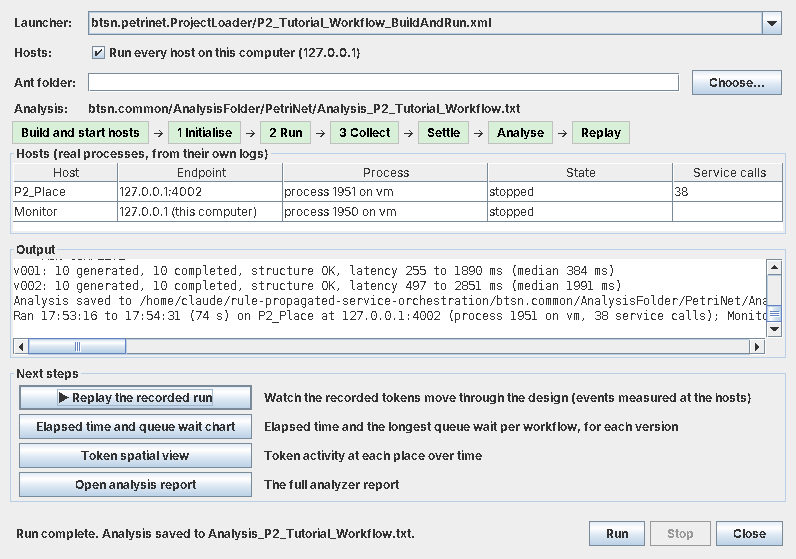
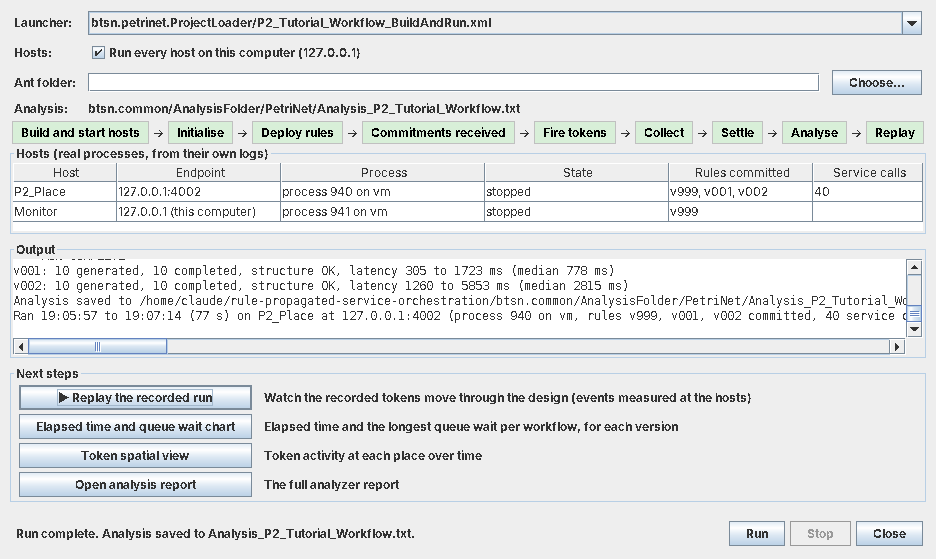
Run: show rule deployment and the hosts' commitments as steps
Rules reach every host before any token flows; the Run window now shows it.

- Steps: Build and start hosts, Initialise, Deploy rules, Commitments received,
  Fire tokens, Collect, Settle, Analyse, Replay. Commitments received is lit by
  the hosts' confirmations of the workflow's rules ("Commitment confirmed
  for ..."), not those exchanged for initialisation or collection, and is
  complete when tokens start to fire. A host that never confirms leaves the step
  red where the launcher stopped.
- Hosts table: a Rules committed column per host (P2_Place v999, v001, v002;
  Monitor v999); admin services commit for their host. The closing line names
  them too.
- Tutorial: the steps and "rules before tokens"; phase table; screenshot.
- RunFromEditorCheck: step transitions (initialisation commitments ignored,
  second version's deployment, firing) and per-host commitments.

Claude-Session: https://claude.ai/code/session_0151nDw2DdARiuD7yvK629N9

diff --git a/btsn.workflowEditor/tests/com/editor/RunFromEditorCheck.java b/btsn.workflowEditor/tests/com/editor/RunFromEditorCheck.java
@@ -19,7 +19,12 @@ public final class RunFromEditorCheck {
 
     private static void run(String[] args) throws Exception {
         File repository = new File(args[0]).getCanonicalFile();
-        check(LauncherRun.phaseOf("=== PHASE 2: WORKFLOW EXECUTION ===") == LauncherRun.Phase.RUN && LauncherRun.phaseOf("Deploying") == null, "Phase lines");
+        // Steps: commitments in initialisation (v999) are not the workflow's; those after its rules are sent are.
+        check(LauncherRun.phaseOf("=== PHASE 2: WORKFLOW EXECUTION ===", LauncherRun.Phase.INITIALISE) == LauncherRun.Phase.DEPLOY, "Phase 2 starts rule deployment");
+        check(LauncherRun.phaseOf("DEBUG [main] (?:?) - Commitment confirmed for P2_InitializationService:purgeAndInitialize in 100ms", LauncherRun.Phase.INITIALISE) == null, "Initialisation commitment taken as the workflow's");
+        check(LauncherRun.phaseOf("DEBUG [main] (?:?) - Commitment confirmed for P2_Place:processToken in 101ms", LauncherRun.Phase.DEPLOY) == LauncherRun.Phase.COMMIT, "Workflow commitment not seen");
+        check(LauncherRun.phaseOf("Deploying petrinet/Workflow/X (v002) for EG6...", LauncherRun.Phase.COMMIT) == LauncherRun.Phase.DEPLOY, "Second version's deployment not seen");
+        check(LauncherRun.phaseOf("Firing 10 tokens from EG11 (v001) to P2_Place.processToken...", LauncherRun.Phase.COMMIT) == LauncherRun.Phase.FIRE, "Firing not seen");
         List<File> launchers = LauncherRun.launchersFor(repository, "petrinet/Workflow/P2_Tutorial_Workflow");
         check(!launchers.isEmpty() && launchers.get(0).getName().equals("P2_Tutorial_Workflow_BuildAndRun.xml"), "P2 launcher not found first: " + launchers);
         // The closing summary: per version, generated and completed, flagged when some did not complete.
@@ -58,6 +63,20 @@ public final class RunFromEditorCheck {
         RunHosts away = RunHosts.forLauncher(fakeLauncher.toFile(), repository, false);
         away.started(System.currentTimeMillis());
         away.launcherLine("  [p2] Skipping - running on remote host");
+        // Commitments, per host: admin services commit for their host.
+        RunHosts committing = RunHosts.forLauncher(fakeLauncher.toFile(), repository, true);
+        committing.started(System.currentTimeMillis());
+        for (String line : new String[] {
+                " INFO [CommitmentListener-v999] (?:?) - [OK] UDP commitment confirmation received: v999:1",
+                "DEBUG [main] (?:?) - Commitment confirmed for P2_InitializationService:purgeAndInitialize in 100ms",
+                " INFO [CommitmentListener-v999] (?:?) - [OK] UDP commitment confirmation received: v999:2",
+                "DEBUG [main] (?:?) - Commitment confirmed for Monitor_InitializationService:purgeAndInitialize in 101ms",
+                " INFO [CommitmentListener-v001] (?:?) - [OK] UDP commitment confirmation received: v001:1",
+                "DEBUG [main] (?:?) - Commitment confirmed for P2_Place:processToken in 101ms",
+                " INFO [CommitmentListener-v002] (?:?) - [OK] UDP commitment confirmation received: v002:1",
+                "DEBUG [main] (?:?) - Commitment confirmed for P2_Place:processToken in 101ms"})
+            committing.launcherLine(line);
+        check(committing.hosts.get(0).committed.equals(Arrays.asList("v999", "v001", "v002")) && committing.hosts.get(1).committed.equals(Arrays.asList("v999")), "Commitments: " + committing.hosts.get(0).committed + " / " + committing.hosts.get(1).committed);
         check(away.hosts.get(0).remote && away.hosts.get(0).state.startsWith("remote host"), "Remote host not shown");
 
         // A project reached through ".." (e.g. a process opened as ...\\btsn.workflowEditor\\..\\btsn.common\\...) gives real paths.
@@ -119,7 +138,7 @@ public final class RunFromEditorCheck {
         run.start();
         check(complete.done.await(60, TimeUnit.SECONDS), "Run did not finish");
         check(complete.outcome == LauncherRun.Phase.DONE && analysis.equals(complete.analysis), "Run outcome " + complete.outcome + ": " + complete.message + "\n" + complete.lines);
-        check(complete.phases.containsAll(Arrays.asList(LauncherRun.Phase.BUILD, LauncherRun.Phase.INITIALISE, LauncherRun.Phase.RUN,
+        check(complete.phases.containsAll(Arrays.asList(LauncherRun.Phase.BUILD, LauncherRun.Phase.INITIALISE, LauncherRun.Phase.DEPLOY, LauncherRun.Phase.COMMIT, LauncherRun.Phase.FIRE,
             LauncherRun.Phase.COLLECT, LauncherRun.Phase.SETTLE, LauncherRun.Phase.ANALYSE, LauncherRun.Phase.DONE)), "Phases " + complete.phases);
         check(complete.lines.stream().anyMatch(l -> l.contains("-Dhost.address=127.0.0.1")), "Local hosts option not passed");
         String saved = new String(Files.readAllBytes(analysis.toPath()), StandardCharsets.UTF_8);
@@ -139,7 +158,7 @@ public final class RunFromEditorCheck {
         check(stopped.done.await(30, TimeUnit.SECONDS) && stopped.outcome == LauncherRun.Phase.STOPPED, "Stop did not stop the run: " + stopped.outcome);
         check(!alive(hostPid), "Host left running after Stop");
         check(!scratch.resolve("unused.txt").toFile().exists(), "Stopped run wrote an analysis");
-        System.out.println("PASS: Run from the editor: phases followed, hosts stopped with the launcher, analysis saved and summarised, hosts read from their own logs, Stop mid-run");
+        System.out.println("PASS: Run from the editor: phases followed, hosts stopped with the launcher, analysis saved and summarised, hosts read from their own logs, rule commitments per host, Stop mid-run");
     }
 
     /** Builds Ant's folder layout with a Launcher class that behaves like a BuildAndRun launcher. */
@@ -160,6 +179,10 @@ public final class RunFromEditorCheck {
             + "    System.out.println(\"=== PHASE 1: DATABASE INITIALIZATION ===\");\n"
             + "    System.out.println(\" INFO [main] (?:?) - === JSON-BASED DEPLOYMENT COMPLETED SUCCESSFULLY ===\");\n"
             + "    System.out.println(\"=== PHASE 2: WORKFLOW EXECUTION ===\");\n"
+            + "    System.out.println(\"Deploying petrinet/Workflow/Demo (v001) for EG11...\");\n"
+            + "    System.out.println(\" INFO [CommitmentListener-v001] (?:?) - [OK] UDP commitment confirmation received: v001:1\");\n"
+            + "    System.out.println(\"DEBUG [main] (?:?) - Commitment confirmed for P2_Place:processToken in 101ms\");\n"
+            + "    System.out.println(\"Firing 10 tokens from EG11 (v001) to P2_Place.processToken...\");\n"
             + "    Process host = new ProcessBuilder(\"sleep\", \"600\").start();\n"
             + "    Files.write(scratch.resolve(\"host.pid\"), String.valueOf(host.pid()).getBytes());\n"
             + "    if (Files.exists(scratch.resolve(\"hang\"))) { host.waitFor(); return; }\n"

diff --git a/btsn.workflowEditor/src/com/editor/RunHosts.java b/btsn.workflowEditor/src/com/editor/RunHosts.java
@@ -20,6 +20,8 @@ public final class RunHosts {
         final File log;
         public String state = "waiting", process = "";
         public int calls;
+        /** Rule versions this host has confirmed (its commitments), in the order received. */
+        public final List<String> committed = new ArrayList<>();
         public boolean remote, seen;
         private long offset;
         private final StringBuilder partial = new StringBuilder();
@@ -28,10 +30,13 @@ public final class RunHosts {
 
     private static final Pattern PROCESS = Pattern.compile("Host process: (\\d+) on (\\S+)");
     private static final Pattern CALL = Pattern.compile("SERVICE COMPLETE: org\\.btsn\\.places\\.\\w+_Place\\.");
+    private static final Pattern CONFIRMATION = Pattern.compile("commitment confirmation received: (v\\d+):\\d+");
+    private static final Pattern COMMITTED = Pattern.compile("Commitment confirmed for (\\w+):\\w+");
     private static final Pattern SKIPPED = Pattern.compile("\\[(p\\d|monitor)\\] Skipping - running on remote host");
 
     public final List<Host> hosts = new ArrayList<>();
     private long runStart;
+    private String confirmingVersion = "";
 
     /** The hosts a launcher starts (its run.pN properties) and Monitor, with their endpoints from SingleHost.json. */
     public static RunHosts forLauncher(File launcher, File root, boolean allHostsHere) {
@@ -89,15 +94,37 @@ public final class RunHosts {
     /** A new run: earlier logs (written before this moment) are ignored until the hosts write new ones. */
     public void started(long when) {
         runStart = when;
-        for (Host h : hosts) { h.state = "waiting"; h.process = ""; h.calls = 0; h.remote = false; h.seen = false; h.offset = 0; h.partial.setLength(0); }
+        for (Host h : hosts) { h.state = "waiting"; h.process = ""; h.calls = 0; h.remote = false; h.seen = false; h.offset = 0; h.partial.setLength(0); h.committed.clear(); }
+        confirmingVersion = "";
     }
 
-    /** A line of the launcher's own output: it reports hosts it leaves to other machines. */
+    /**
+     * A line of the launcher's own output: it reports hosts it leaves to other machines, and each host's
+     * commitment to the rules sent to it ("confirmation received: v001:1", then "Commitment confirmed for
+     * P2_Place:processToken"). Admin services commit for their host: P2_InitializationService is P2's.
+     */
     public void launcherLine(String line) {
+        Matcher v = CONFIRMATION.matcher(line);
+        if (v.find()) { confirmingVersion = v.group(1); return; }
+        Matcher c = COMMITTED.matcher(line);
+        if (c.find() && !confirmingVersion.isEmpty()) {
+            Host h = hostOfService(c.group(1));
+            if (h != null && !h.committed.contains(confirmingVersion)) h.committed.add(confirmingVersion);
+            return;
+        }
         Matcher m = SKIPPED.matcher(line);
         if (!m.find()) return;
         String node = m.group(1).equalsIgnoreCase("monitor") ? "monitor" : m.group(1).toUpperCase(Locale.ROOT);
         for (Host h : hosts) if (h.node.equals(node)) { h.remote = true; h.state = "remote host (not started here)"; }
+    }
+
+    /** P2_Place, P2_InitializationService, P2_CollectorService -> P2_Place; Monitor... -> Monitor. */
+    Host hostOfService(String service) {
+        if (service.startsWith("Monitor")) { for (Host h : hosts) if ("Monitor".equals(h.name)) return h; return null; }
+        Matcher node = Pattern.compile("^(P\\d)_").matcher(service);
+        if (!node.find()) return null;
+        for (Host h : hosts) if (node.group(1).equals(h.node)) return h;
+        return null;
     }
 
     /** Reads what each host has added to its log since the last refresh. */
@@ -137,6 +164,7 @@ public final class RunHosts {
         for (Host h : hosts) {
             List<String> detail = new ArrayList<>();
             if (!h.process.isEmpty()) detail.add(h.process);
+            if (!h.committed.isEmpty()) detail.add("rules " + String.join(", ", h.committed) + " committed");
             if (h.remote) detail.add("remote host");
             if (!"Monitor".equals(h.name)) detail.add(h.calls + " service calls");
             parts.add(h.name + (h.endpoint.isEmpty() || "Monitor".equals(h.name) ? "" : " at " + h.endpoint) + (detail.isEmpty() ? "" : " (" + String.join(", ", detail) + ")"));

diff --git a/btsn.workflowEditor/src/com/editor/RunWindow.java b/btsn.workflowEditor/src/com/editor/RunWindow.java
@@ -40,7 +40,7 @@ public final class RunWindow extends JFrame {
     private final JLabel status = new JLabel(" ");
     private LauncherRun run;
 
-    private static final String[] STEP_NAMES = {"Build and start hosts", "1 Initialise", "2 Run", "3 Collect", "Settle", "Analyse", "Replay"};
+    private static final String[] STEP_NAMES = {"Build and start hosts", "Initialise", "Deploy rules", "Commitments received", "Fire tokens", "Collect", "Settle", "Analyse", "Replay"};
 
     public RunWindow(Window owner, File root, String processName, List<File> launchers, Consumer<File> onAnalysis, Runnable onPlay) {
         super("Run on hosts: " + processName);
@@ -95,7 +95,8 @@ public final class RunWindow extends JFrame {
         hostTable.getColumnModel().getColumn(1).setPreferredWidth(150);
         hostTable.getColumnModel().getColumn(2).setPreferredWidth(190);
         hostTable.getColumnModel().getColumn(3).setPreferredWidth(170);
-        hostTable.getColumnModel().getColumn(4).setPreferredWidth(95);
+        hostTable.getColumnModel().getColumn(4).setPreferredWidth(130);
+        hostTable.getColumnModel().getColumn(5).setPreferredWidth(95);
         hostTable.setToolTipText("Each row is a real host process started for this run, read from its own log beside the launcher");
         hostPane = new JScrollPane(hostTable);
         hostPane.setBorder(BorderFactory.createTitledBorder("Hosts (real processes, from their own logs)"));
@@ -174,9 +175,9 @@ public final class RunWindow extends JFrame {
     private void showPhase(LauncherRun.Phase phase) {
         int index;
         switch (phase) {
-            case BUILD: index = 0; break; case INITIALISE: index = 1; break; case RUN: index = 2; break;
-            case COLLECT: index = 3; break; case SETTLE: index = 4; break; case ANALYSE: index = 5; break;
-            case DONE: index = 6; break;
+            case BUILD: index = 0; break; case INITIALISE: index = 1; break; case DEPLOY: index = 2; break;
+            case COMMIT: index = 3; break; case FIRE: index = 4; break; case COLLECT: index = 5; break;
+            case SETTLE: index = 6; break; case ANALYSE: index = 7; break; case DONE: index = 8; break;
             default: return;
         }
         for (int i = 0; i < steps.length; i++) {
@@ -228,7 +229,7 @@ public final class RunWindow extends JFrame {
 
     /** Host | Endpoint | Process | State | Service calls */
     final class HostModel extends javax.swing.table.AbstractTableModel {
-        private final String[] columns = {"Host", "Endpoint", "Process", "State", "Service calls"};
+        private final String[] columns = {"Host", "Endpoint", "Process", "State", "Rules committed", "Service calls"};
         public int getRowCount() { return hosts == null ? 0 : hosts.hosts.size(); }
         public int getColumnCount() { return columns.length; }
         @Override public String getColumnName(int c) { return columns[c]; }
@@ -239,6 +240,7 @@ public final class RunWindow extends JFrame {
                 case 1: return h.endpoint;
                 case 2: return h.process;
                 case 3: return h.state;
+                case 4: return String.join(", ", h.committed);
                 default: return "Monitor".equals(h.name) ? "" : String.valueOf(h.calls);
             }
         }

diff --git a/btsn.workflowEditor/src/com/editor/LauncherRun.java b/btsn.workflowEditor/src/com/editor/LauncherRun.java
@@ -19,7 +19,11 @@ import java.util.stream.Collectors;
  * especially), holding their ports and Monitor's database. Stopping always takes the whole tree.
  */
 public final class LauncherRun {
-    public enum Phase { BUILD, INITIALISE, RUN, COLLECT, SETTLE, ANALYSE, DONE, FAILED, STOPPED }
+    /**
+     * The run's steps. Rules reach every host before any token flows: DEPLOY sends each version's rules,
+     * COMMIT is the hosts confirming them (their commitments), and only then are tokens fired.
+     */
+    public enum Phase { BUILD, INITIALISE, DEPLOY, COMMIT, FIRE, COLLECT, SETTLE, ANALYSE, DONE, FAILED, STOPPED }
 
     public interface Listener {
         void line(String text);
@@ -99,11 +103,12 @@ public final class LauncherRun {
         if (allHostsHere) args.add("-Dhost.address=127.0.0.1");
         process = start(args, null);
         boolean completed = false;
+        Phase current = Phase.BUILD;
         try (BufferedReader out = new BufferedReader(new InputStreamReader(process.getInputStream(), StandardCharsets.UTF_8))) {
             for (String line; (line = out.readLine()) != null; ) {
                 listener.line(line);
-                Phase phase = phaseOf(line);
-                if (phase != null) listener.phase(phase, line.trim());
+                Phase phase = phaseOf(line, current);
+                if (phase != null && phase != current) { current = phase; listener.phase(phase, line.trim()); }
                 // The launcher's last line; earlier steps also print "... COMPLETED SUCCESSFULLY".
                 if (line.contains("Services are still running")) { completed = true; break; }
                 if (line.startsWith("BUILD FAILED")) break;
@@ -306,11 +311,18 @@ public final class LauncherRun {
         }
     }
 
-    /** The phase a launcher output line starts, if any. */
-    static Phase phaseOf(String line) {
+    /**
+     * The step a launcher output line moves the run to, if any. Commitments are also exchanged in
+     * initialisation and collection (their own rules); only those after the workflow's rules are sent
+     * mark the Commitments step, which is complete once tokens start to fire.
+     */
+    static Phase phaseOf(String line, Phase current) {
         if (line.contains("PHASE 1:")) return Phase.INITIALISE;
-        if (line.contains("PHASE 2:")) return Phase.RUN;
+        if (line.contains("PHASE 2:")) return Phase.DEPLOY;
         if (line.contains("PHASE 3:")) return Phase.COLLECT;
+        if ((current == Phase.DEPLOY || current == Phase.COMMIT) && line.contains("Commitment confirmed for")) return Phase.COMMIT;
+        if ((current == Phase.DEPLOY || current == Phase.COMMIT) && line.matches("^Deploying .*\\((v\\d+)\\).*")) return Phase.DEPLOY;
+        if ((current == Phase.DEPLOY || current == Phase.COMMIT) && line.matches("^Firing \\d+ tokens from .*")) return Phase.FIRE;
         return null;
     }
 

diff --git a/Tutorial.md b/Tutorial.md
@@ -247,7 +247,12 @@ Click **Create**. For `My_P2_Workflow` the editor writes:
 
 Click **Run on hosts** in the toolbar. The Run window finds the process's launcher and does the whole run:
 
-1. **Builds and starts** the hosts, then follows the launcher through its three phases. The **Hosts** table shows each host process as it runs: its endpoint, its process number and machine, its state, and how many service calls it has completed.
+1. **Builds and starts** the hosts, then follows the launcher step by step:
+
+   **Initialise → Deploy rules → Commitments received → Fire tokens → Collect**
+
+   - **Rules before tokens.** No token is fired until every host has committed to its rules. Each host confirms each version of the rules it is sent, and the launcher waits for those confirmations.
+   - **Hosts table.** It shows each host process as it runs: its endpoint, its process number and machine, its state, the rule versions it has committed (for example `v999, v001, v002`) and how many service calls it has completed.
 2. **Settles and stops.** When collection is done, it waits for Monitor to finish writing, then stops the launcher and every host it started.
 3. **Analyses.** It runs `analyse` and saves the report to `btsn.common/AnalysisFolder/PetriNet/Analysis_My_P2_Workflow.txt`, replacing any earlier analysis of the process.
 4. **Loads the replay.** It loads the analysis into the editor and highlights **Play** ([step 5](#replay-the-tokens-on-the-design)).
@@ -311,7 +316,7 @@ The default target `run-complete-workflow` does everything:
 | Phase | What happens | Definition used |
 |---|---|---|
 | 1 — Database initialization | Reset P2 and Monitor (administrative version `v999`) | `common/Initializers/P2_Initialization` |
-| 2 — Workflow execution | Generate the rules for P2, deploy the process as `v001`, then fire the tokens from EG11 | `petrinet/Workflow/My_P2_Workflow` |
+| 2 — Workflow execution | Generate the rules for P2 and send them as `v001`. P2 commits to them (a confirmation per version), and only then are the tokens fired from EG11 | `petrinet/Workflow/My_P2_Workflow` |
 | 3 — Data collection | Request P2's observations and write them to Monitor | `common/Collectors/P2_Collector` |
 
 ### Stop it when collection finishes

diff --git a/images/README.md b/images/README.md
@@ -76,7 +76,7 @@ painted from the editor's own windows at 100% zoom:
 | `p2-tutorial-design.png` | ProcessEditor with `P2_Tutorial_Workflow.json` open and P2 selected: catalogue, service, operation, **What it does**, deployment instance, **Runs on** and contract in the Attributes panel; the node badge on the place |
 | `p2-tutorial-deploy.png` | The Deploy panel for that process: the read-only `SingleHost.json` nodes and the P2 capability row |
 | `p2-tutorial-build-and-run.png` | The Create Build and Run dialog with its defaults and the Write/Reuse/Replace summary |
-| `p2-tutorial-run.png` | The Run window after a completed run: every step from Build and start to Replay done, the closing summary per version, and the Next steps panel |
+| `p2-tutorial-run.png` | The Run window after a completed run: every step from Build and start hosts through Commitments received to Replay done, the hosts with the rule versions each committed, the closing summary, and the Next steps panel |
 
 Retake them when these windows change, rather than editing the images.
 
